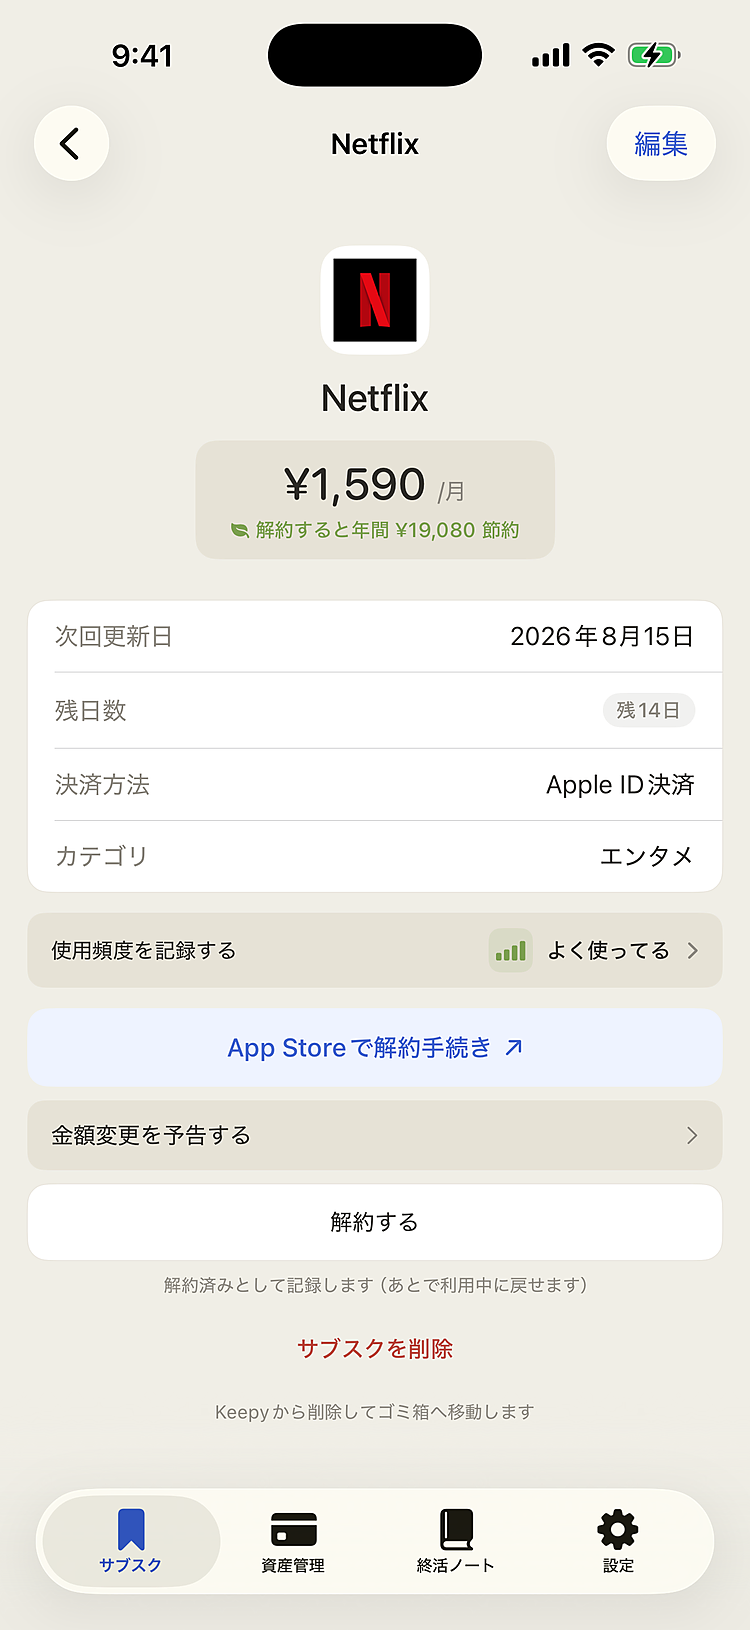
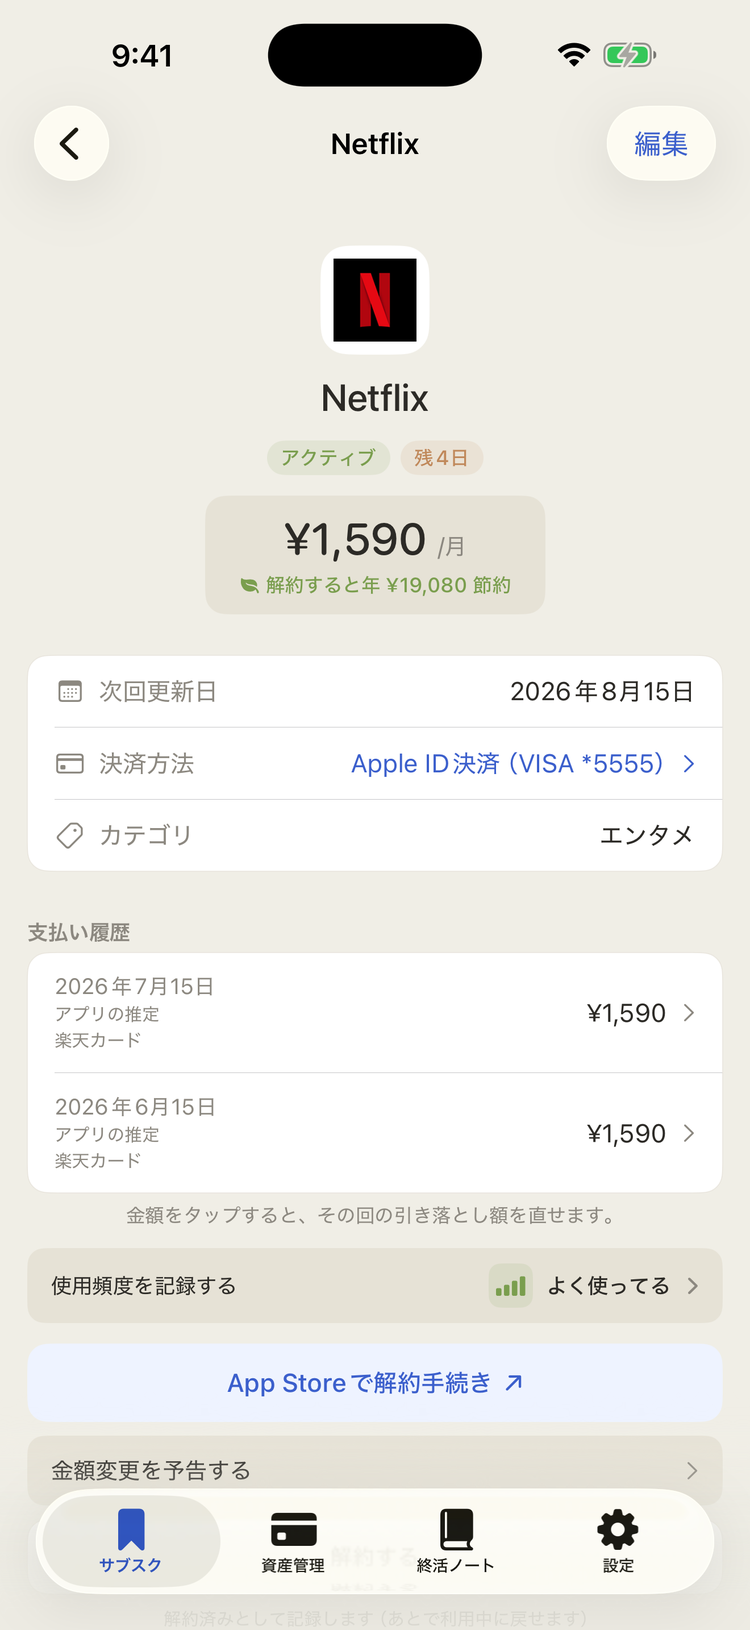
feat(content): 決済方法の参照方式ほか現行アプリに追従（2026-08-11）
- manual: 新トピック「決済方法（どこから引き落とされるか）」（登録・全サブスク反映・
  カード/口座集計。経由サービス「なし」の迷いにも回答）＋スクショ img/manual/payment.png
- manual: 通知の種類一覧に「カード引き落とし（前日朝）」を追加・
  設定トグルの表記を実装に一致（月次・年間レポート／カード引き落とし通知）
- features: キャリア決済（d払い等）対応を反映・オンボーディング節に「決済方法」の語を導入
- index: ヒーローのサブスク詳細スクショを現行デザインで撮り直し（?v=3）
  （決済方法リンク・支払い履歴つき・#29 B案レイアウト）
- 画像は全て 750px＋211/422 変種（Lanczos のみ＝方式B）

diff --git a/manual.html b/manual.html
@@ -196,6 +196,7 @@
     <div class="toc-group-label">📊 画面の見方</div>
     <div class="toc-links">
       <a href="#report">レポートと見直し候補</a>
+      <a href="#payment-method">決済方法（どこから引き落とされるか）</a>
       <a href="#cancel">解約の記録と再開</a>
     </div>
   </div>
@@ -439,6 +440,37 @@
     <p class="body-text">年払いサブスクの更新月には、見逃さないようバナーでお知らせします。</p>
   </section>
 
+  <section class="guide-section" id="payment-method">
+    <h2>決済方法（どこから引き落とされるか）</h2>
+    <p class="lead">「Apple ID決済（楽天カード）」のような支払いの組み合わせを<strong>決済方法</strong>として登録し、サブスクに紐づけられます。</p>
+    <div class="topic-card tint-indigo">
+      <div class="steps">
+      <div class="step">
+        <div class="step-num">1</div>
+        <div class="step-body">
+          <h3>サブスクの登録画面で「決済方法を選ぶ」</h3>
+          <p>保存済みの決済方法から選ぶか、その場で新しく作れます。経由サービス（Apple ID決済・Google Play決済・d払い・auかんたん決済・ソフトバンクまとめて支払い・PayPal など）と、引き落とし元のカード・口座の組み合わせです。<strong>カードから直接引き落とされる場合は、経由サービス「なし」でカードだけを選びます</strong>。未設定のままでも保存できます。</p>
+        </div>
+      </div>
+      <div class="step">
+        <div class="step-num">2</div>
+        <div class="step-body">
+          <h3>編集すると、使っている全サブスクに反映</h3>
+          <p>資産管理タブの「決済方法」に、登録した組み合わせが使用件数つきで並びます。<strong>編集すると、その決済方法を使っている全サブスクにまとめて反映</strong>されます（カードを乗り換えたときに1回直すだけ）。編集画面には使用中のサブスクの一覧も表示され、タップで詳細に移動できます。過去の支払い記録は変わりません。</p>
+        </div>
+      </div>
+      <div class="step">
+        <div class="step-num">3</div>
+        <div class="step-body">
+          <h3>カード・口座の画面で「どこからいくら落ちるか」</h3>
+          <p>決済方法を設定したサブスクは、カード詳細の「このカードから引き落とされるサブスク」や口座詳細の集計に自動で入ります。解約手続きのボタンも決済方法に合わせて変わります（Apple ID決済なら App Store の解約ページへ直行）。</p>
+        </div>
+      </div>
+    </div>
+      <div class="phone"><img srcset="img/manual/payment-211.png 211w, img/manual/payment-422.png 422w, img/manual/payment.png 750w" sizes="(max-width: 620px) 186px, 211px" src="img/manual/payment.png" width="750" height="1629" loading="lazy" alt="資産管理タブの決済方法一覧。組み合わせごとに使用件数を表示"></div>
+    </div>
+  </section>
+
   <section class="guide-section" id="cancel">
     <h2>解約の記録と再開</h2>
     <p class="lead">Keepy の「解約する」は記録です。実際の解約手続きはサービス側で行います。</p>
@@ -516,7 +548,7 @@
 
   <section class="guide-section" id="notifications">
     <h2>通知の種類一覧</h2>
-    <p class="lead">Keepy が送る通知は次のとおりです。設定 → 通知設定で「更新前の通知」「月次レポート」のオン・オフを切り替えられます（iPhone 側の通知許可も必要です）。</p>
+    <p class="lead">Keepy が送る通知は次のとおりです。設定 → 通知設定で「更新前の通知」「月次・年間レポート」「カード引き落とし通知」のオン・オフを切り替えられます（iPhone 側の通知許可も必要です）。</p>
     <div class="table-wrap">
       <table>
         <tr><th>通知</th><th>タイミング</th></tr>
@@ -525,6 +557,7 @@
         <tr><td>金額変更</td><td>予告した変更日の14日前</td></tr>
         <tr><td>縛り期間の終了</td><td>60日前と当日</td></tr>
         <tr><td>モノ・書類の期限</td><td>3ヶ月前と当日</td></tr>
+        <tr><td>カード引き落とし</td><td>カードに設定した引き落とし日の前日朝。Keepy 登録分の合計金額つき（参考値）</td></tr>
         <tr><td>月次レポート（先月のまとめ）</td><td>毎月1日の朝。タップするとレポート画面で先月のまとめが開きます</td></tr>
         <tr><td>年間レポート</td><td>毎年1月1日の朝</td></tr>
         <tr><td>実績入力（外貨）</td><td>請求日の翌日</td></tr>

diff --git a/features.html b/features.html
@@ -394,7 +394,7 @@
   <div class="feature-text">
     <span class="feature-label green">🚀 かんたんスタート</span>
     <h2>はじめてでも、<br>迷わず始められる。</h2>
-    <p>「はじめる準備」チェックリストが、口座・カード・サブスクの登録を順番にご案内。Apple IDやPayPal経由の支払いも、引き落とし元のカード・口座まで紐づけられるので、「何がどこから引き落とされるか」をサブスク→カード→口座の順にたどれます。</p>
+    <p>「はじめる準備」チェックリストが、口座・カード・サブスクの登録を順番にご案内。Apple IDやキャリア決済・PayPal経由の支払いも「決済方法」として引き落とし元のカード・口座まで紐づけられるので、「何がどこから引き落とされるか」をサブスク→カード→口座の順にたどれます。</p>
     <div class="feature-points">
       <div class="feature-point">
         <div class="feature-point-dot" style="background: var(--green);"></div>
@@ -610,7 +610,7 @@
       </div>
       <div class="feature-point">
         <div class="feature-point-dot" style="background: var(--indigo);"></div>
-        <span>Apple IDやPayPal経由の支払いも、引き落とし元のカード・口座まで紐づけ</span>
+        <span>Apple ID・d払いなどのキャリア決済・PayPal経由の支払いも、引き落とし元のカード・口座まで紐づけ</span>
       </div>
       <div class="feature-point">
         <div class="feature-point-dot" style="background: var(--indigo);"></div>

diff --git a/index.html b/index.html
@@ -291,7 +291,7 @@
         <img srcset="images/ss_01_list-211.png 211w, images/ss_01_list-422.png 422w, images/ss_01_list.png?v=2 750w" sizes="(max-width: 620px) 186px, 211px" width="750" height="1630" src="images/ss_01_list.png?v=2" alt="サブスク一覧" loading="lazy">
       </div>
       <div class="phone">
-        <img srcset="images/ss_02_detail-211.png 211w, images/ss_02_detail-422.png 422w, images/ss_02_detail.png?v=2 750w" sizes="(max-width: 620px) 186px, 211px" width="750" height="1630" src="images/ss_02_detail.png?v=2" alt="サブスク詳細" loading="lazy">
+        <img srcset="images/ss_02_detail-211.png?v=3 211w, images/ss_02_detail-422.png?v=3 422w, images/ss_02_detail.png?v=3 750w" sizes="(max-width: 620px) 186px, 211px" width="750" height="1630" src="images/ss_02_detail.png?v=3" alt="サブスク詳細" loading="lazy">
       </div>
       <div class="phone">
         <img srcset="images/ss_04_ending-211.png 211w, images/ss_04_ending-422.png 422w, images/ss_04_ending.png?v=2 750w" sizes="(max-width: 620px) 186px, 211px" width="750" height="1630" src="images/ss_04_ending.png?v=2" alt="終活ノート" loading="lazy">
